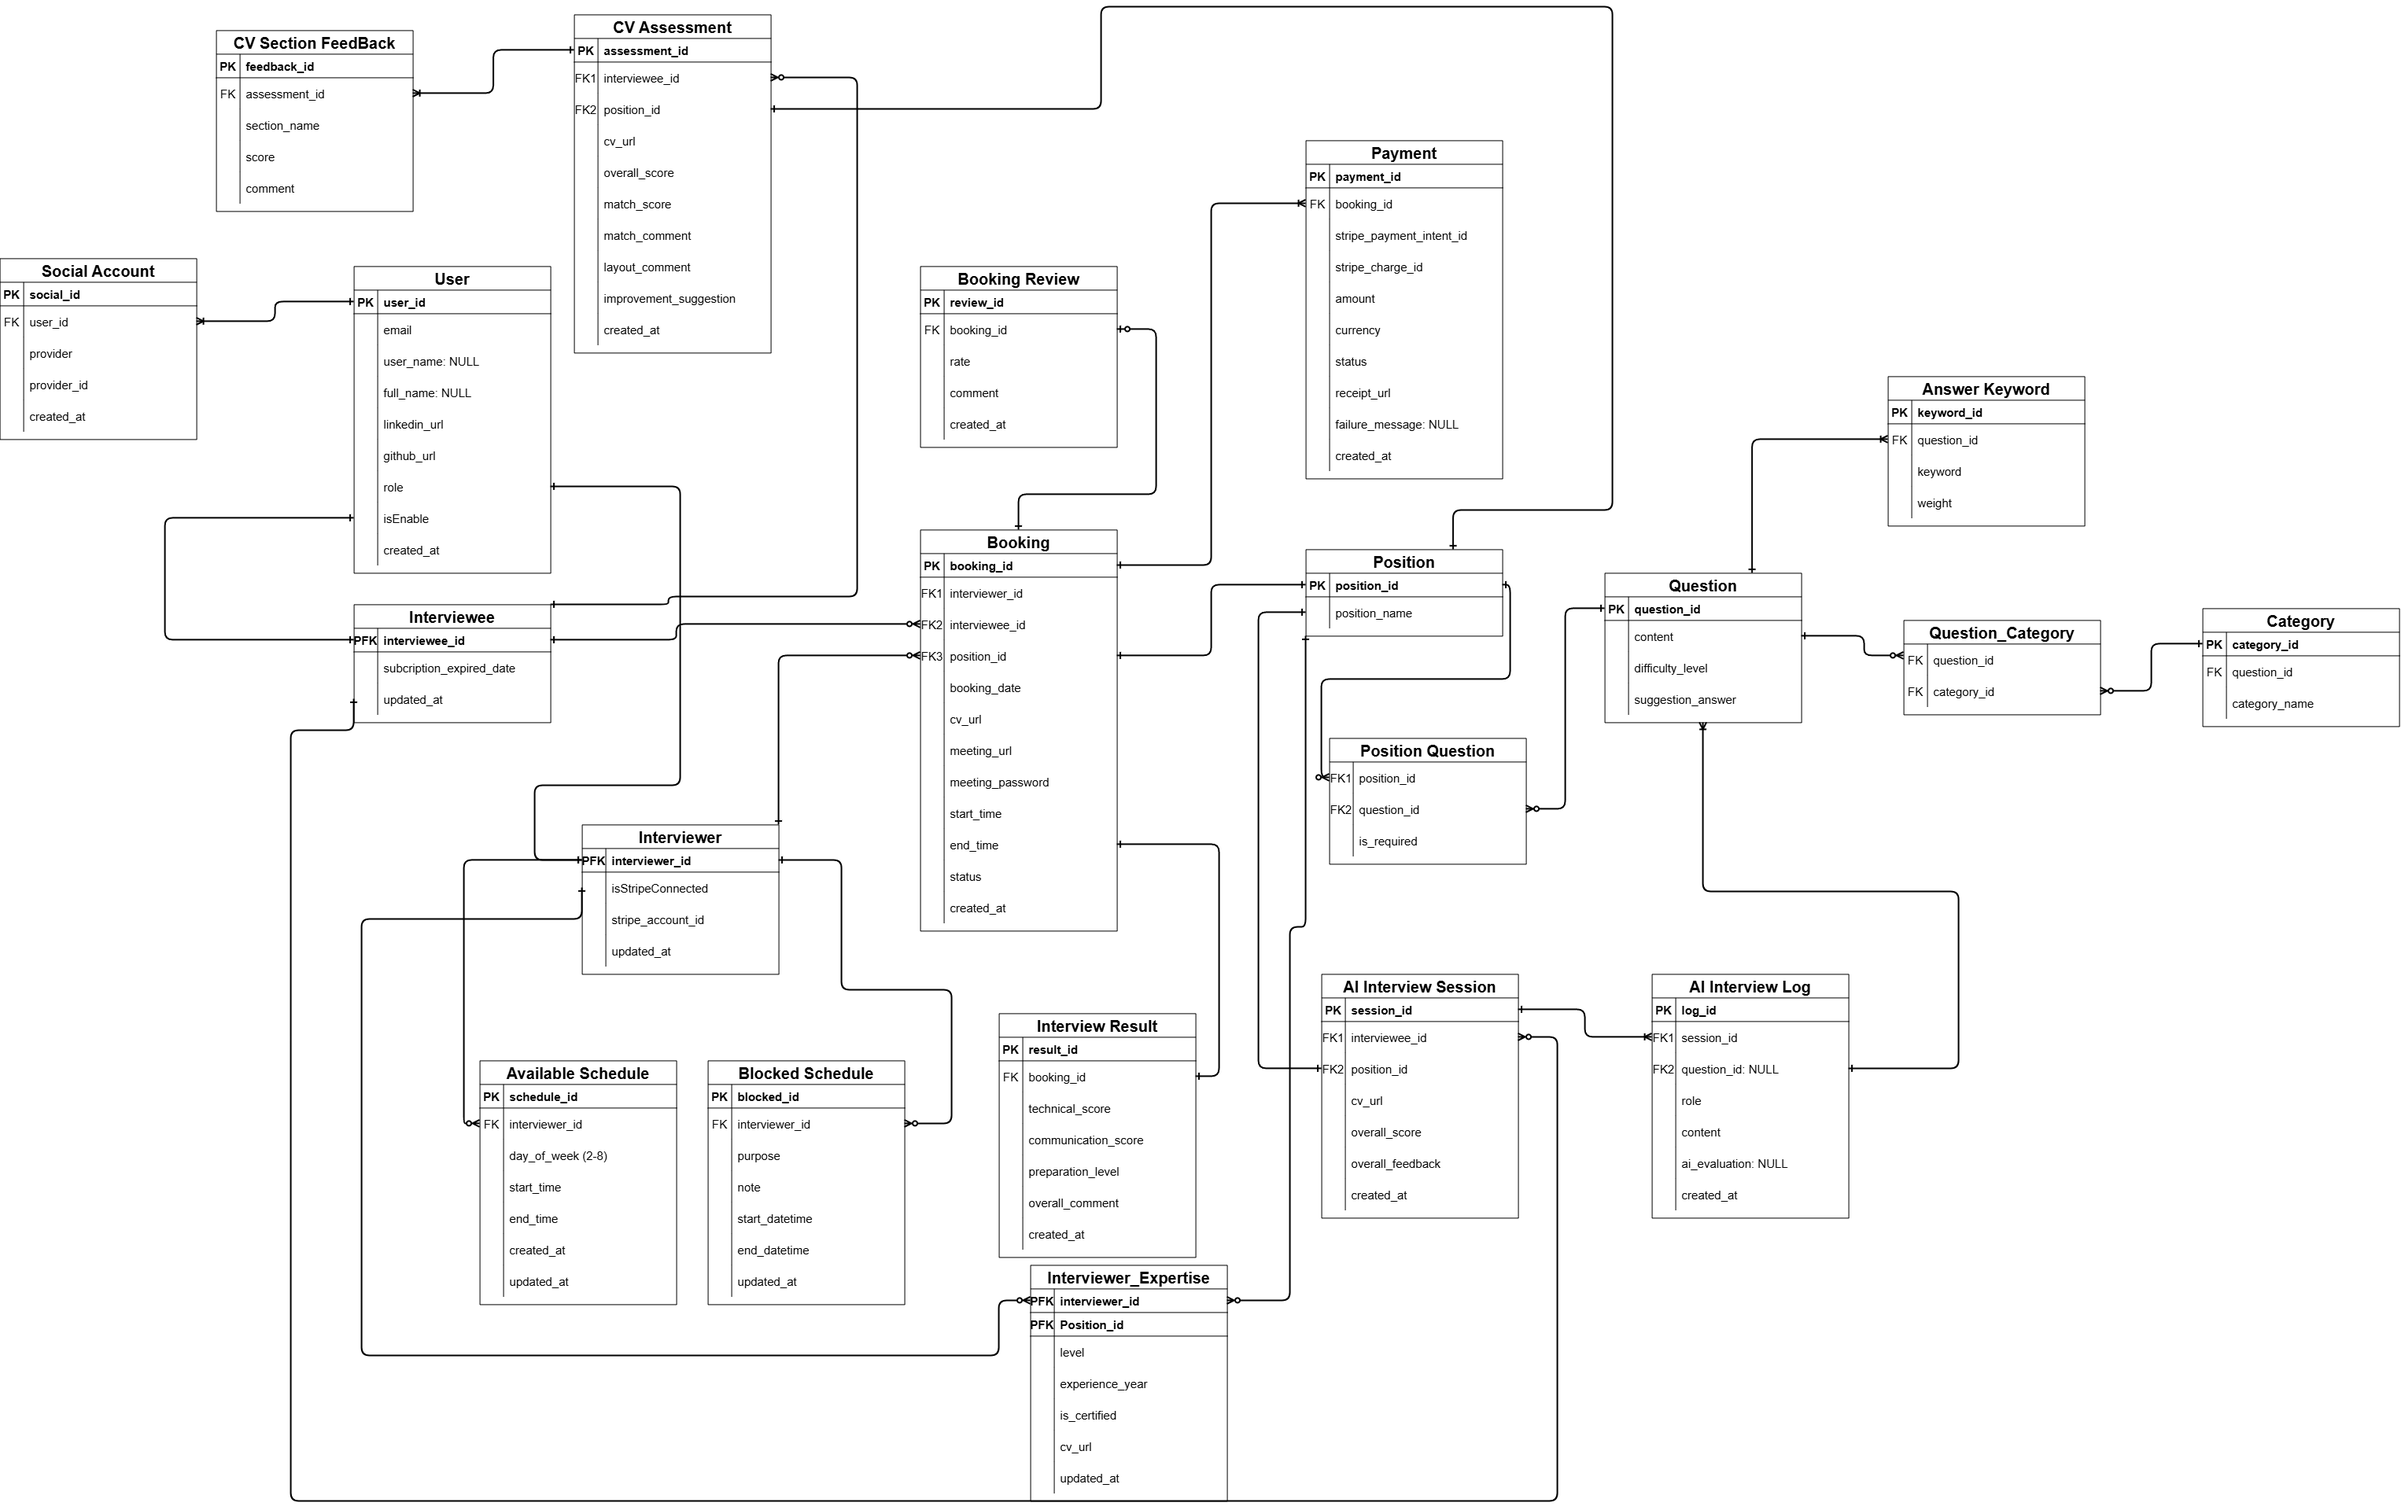
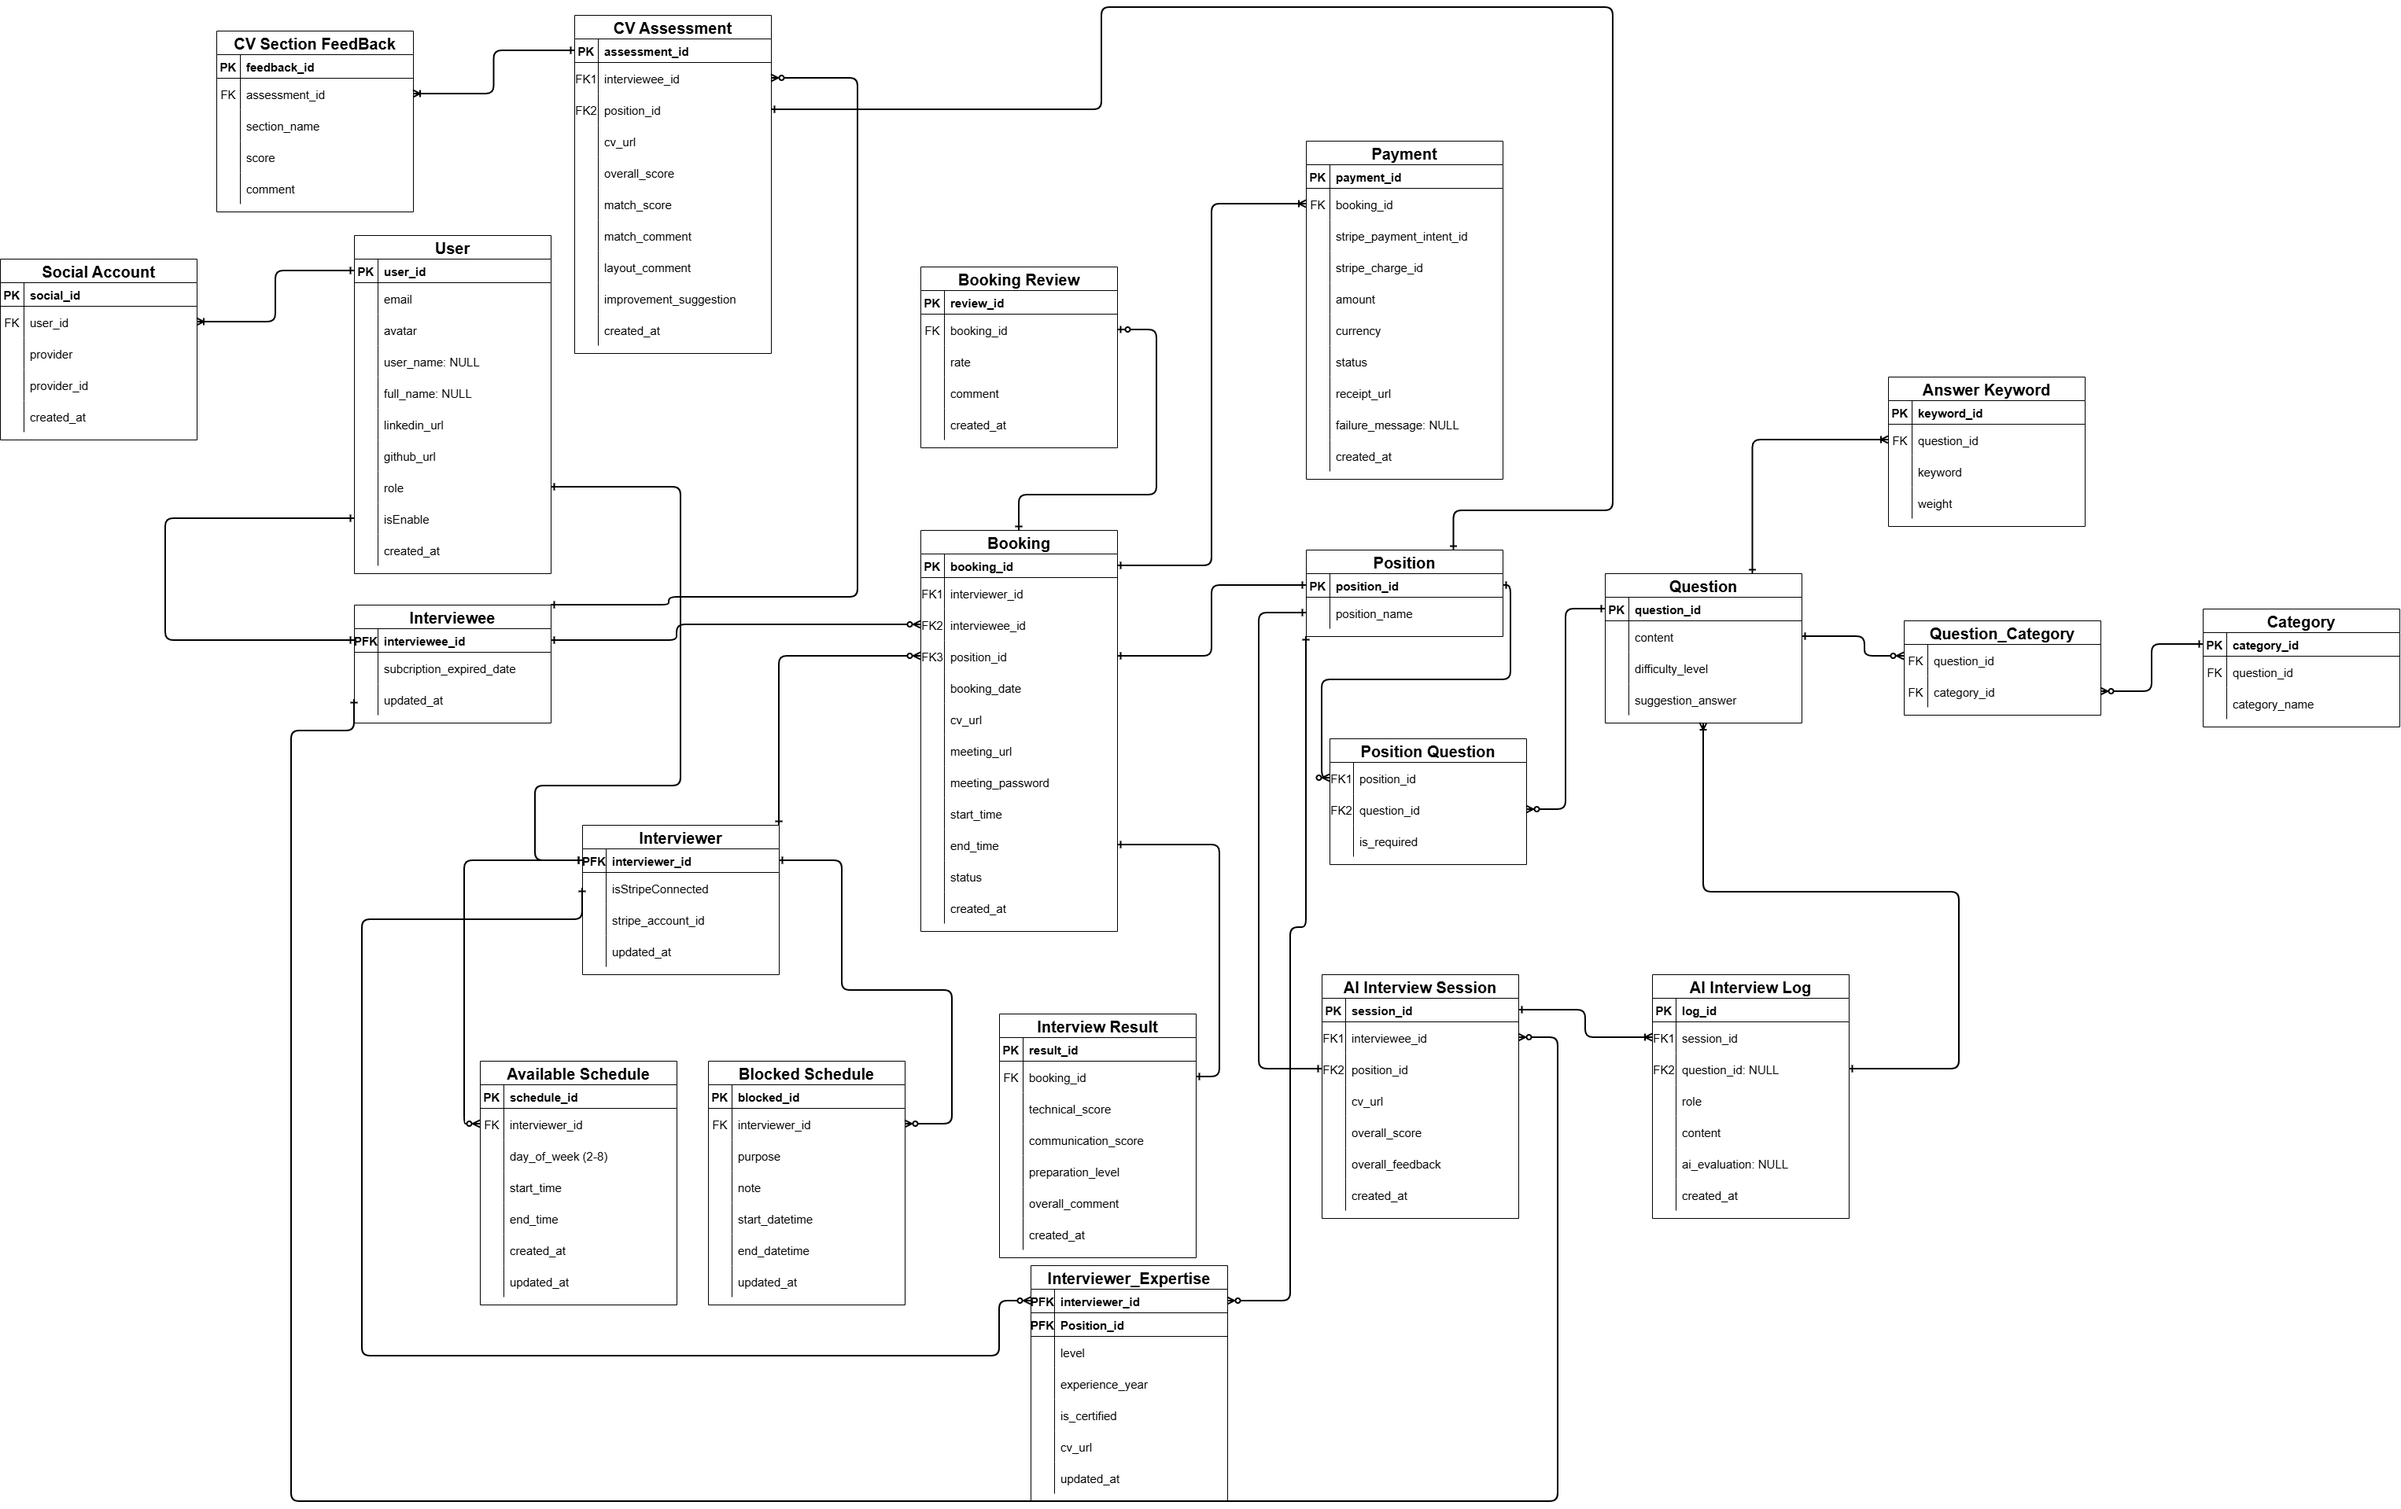
change little

diff --git a/src/backend/src/main/java/com/test/backend/service/UserService.java b/src/backend/src/main/java/com/test/backend/service/UserService.java
@@ -1,5 +1,7 @@
 package com.test.backend.service;
 
+import com.nimbusds.common.contenttype.ContentType;
+import com.test.backend.config.AvatarBucketConfig;
 import com.test.backend.config.CVBucketConfig;
 import com.test.backend.dto.authentication.RegisterRequest;
 import com.test.backend.entity.interviewerExpertise.InterviewerExpertise;
@@ -7,6 +9,8 @@ import com.test.backend.entity.interviewerExpertise.InterviewerExpertiseLevel;
 import com.test.backend.entity.position.Position;
 import com.test.backend.entity.user.User;
 import com.test.backend.entity.user.interviewer.Interviewer;
+import com.test.backend.exception.customException.EmptyInputException;
+import com.test.backend.exception.customException.ErrorTypeException;
 import com.test.backend.exception.customException.NotFoundException;
 import com.test.backend.repository.InterviewerExpertiseRepository;
 import com.test.backend.repository.InterviewerRepository;
@@ -15,6 +19,7 @@ import com.test.backend.repository.UserRepository;
 import io.minio.errors.MinioException;
 import lombok.RequiredArgsConstructor;
 import lombok.extern.slf4j.Slf4j;
+import org.apache.coyote.BadRequestException;
 import org.springframework.stereotype.Service;
 import org.springframework.web.multipart.MultipartFile;
 
@@ -26,7 +31,53 @@ import java.io.IOException;
 public class UserService {
     private final UserRepository userRepository;
 
+    private final FileService fileService;
 
+    private final AvatarBucketConfig avatarBucketConfig;
+
+    public void changeAvatar(User user, MultipartFile avatar) {
+        if(avatar == null || avatar.isEmpty()) {
+            throw new EmptyInputException("Avatar is empty");
+        }
+
+        String originalContentType = avatar.getContentType();
+
+        // Chỉ cho phép định dạng ảnh cơ bản
+        if(originalContentType == null ||
+                (!originalContentType.equals("image/jpeg") &&
+                        !originalContentType.equals("image/png") &&
+                        !originalContentType.equals("image/webp"))) {
+            throw new ErrorTypeException("File is not an image type");
+        }
+
+        String target = "avatar"+ "_" + user.getUserId();
+
+        byte[] fileData;
+        try {
+            fileData = avatar.getBytes();
+        } catch (IOException e) {
+            throw new RuntimeException(e);
+        }
+
+        String avatarUrl;
+        try {
+            avatarUrl = fileService
+                    .uploadFile(avatarBucketConfig.getAvatarBucketName(),
+                            fileData,
+                            originalContentType,
+                            target);
+        } catch (MinioException | IOException e) {
+            // 1. Ghi log đỏ (ERROR) kèm thông tin định danh và dấu vết lỗi (stacktrace)
+            log.error("Error: Fail to Upload CV of ID [{}]. Detail: {}", target, e.getMessage(), e);
+
+            // 2. Vẫn throw ra để dừng luồng hiện tại hoặc để GlobalExceptionHandler/AsyncHandler bắt lại
+            throw new RuntimeException("Upload Avatar Fail for Target: " + target, e);
+        }
+
+        user.setAvatar(avatarUrl);
+
+        userRepository.save(user);
+    }
 
     // Helper Funciton
     public User createUserAndReturn(String email, RegisterRequest request) {
@@ -40,6 +91,7 @@ public class UserService {
                 .isEnabled(Boolean.TRUE)
                 .build();
     }
+
 
 
 }

diff --git a/src/backend/src/main/java/com/test/backend/config/EmailConfig.java b/src/backend/src/main/java/com/test/backend/config/EmailConfig.java
@@ -1,0 +1,38 @@
+package com.test.backend.config;
+
+import org.springframework.beans.factory.annotation.Value;
+import org.springframework.context.annotation.Bean;
+import org.springframework.context.annotation.Configuration;
+import org.springframework.mail.javamail.JavaMailSender;
+import org.springframework.mail.javamail.JavaMailSenderImpl;
+
+import java.util.Properties;
+
+@Configuration
+public class EmailConfig {
+
+    @Value("${mail.username}")
+    private String emailUsername;
+
+    @Value("${mail.password}")
+    private String password;
+
+    @Bean
+    public JavaMailSender getJavaMailSender() {
+        JavaMailSenderImpl mailSender = new JavaMailSenderImpl();
+
+        mailSender.setHost("smtp.gmail.com");
+        mailSender.setPort(587);
+        mailSender.setUsername(emailUsername);
+        mailSender.setPassword(password);
+
+        Properties properties = mailSender.getJavaMailProperties();
+
+        properties.put("mail.transport.protocol", "smtp");
+        properties.put("mail.smtp.auth", "true");
+        properties.put("mail.smtp.starttls.enable", "true");
+        properties.put("mail.debug", "true");
+
+        return mailSender;
+    }
+}

diff --git a/src/backend/src/main/java/com/test/backend/config/AvatarBucketConfig.java b/src/backend/src/main/java/com/test/backend/config/AvatarBucketConfig.java
@@ -1,0 +1,37 @@
+package com.test.backend.config;
+
+import io.minio.BucketExistsArgs;
+import io.minio.MakeBucketArgs;
+import io.minio.MinioClient;
+import io.minio.errors.MinioException;
+import jakarta.annotation.PostConstruct;
+import lombok.RequiredArgsConstructor;
+import org.springframework.beans.factory.annotation.Value;
+import org.springframework.context.annotation.Configuration;
+
+@RequiredArgsConstructor
+@Configuration
+public class AvatarBucketConfig {
+    @Value("${minio.bucket.avatar}")
+    private String cvBucketName;
+
+    private final MinioClient minioClient;
+
+    @PostConstruct
+    public void initCVBucket() {
+        try {
+            boolean isBucketExist = minioClient.bucketExists(BucketExistsArgs.builder().bucket(cvBucketName).build());
+            if(!isBucketExist) {
+                minioClient.makeBucket(MakeBucketArgs.builder().bucket(cvBucketName).build());
+
+            }
+
+        } catch (MinioException e) {
+            throw new RuntimeException("ERROR create Avatar Bucket");
+        }
+    }
+
+    public String getAvatarBucketName() {
+        return cvBucketName;
+    }
+}

diff --git a/src/backend/src/main/java/com/test/backend/service/ExpertiseService.java b/src/backend/src/main/java/com/test/backend/service/ExpertiseService.java
@@ -9,6 +9,7 @@ import com.test.backend.entity.position.Position;
 import com.test.backend.entity.user.User;
 import com.test.backend.entity.user.interviewer.Interviewer;
 import com.test.backend.exception.customException.NotFoundException;
+import com.test.backend.exception.customException.StripeIntegrationException;
 import com.test.backend.repository.InterviewerExpertiseRepository;
 import com.test.backend.repository.InterviewerRepository;
 import com.test.backend.repository.PositionRepository;
@@ -48,6 +49,11 @@ public class ExpertiseService {
 
         Interviewer interviewer = interviewerRepository.findByInterviewerId(userId)
                 .orElseThrow(() -> new NotFoundException("Interviewer not found"));
+
+        // Nếu chưa có tài khoản Stripe thì ko dc check
+        if(!interviewer.getIsStripeConnected()) {
+            throw new StripeIntegrationException("Stripe is not connected");
+        }
 
         byte[] fileData;
         String contentType = file.getContentType();

diff --git a/src/backend/src/main/java/com/test/backend/exception/GlobalExceptionHandler.java b/src/backend/src/main/java/com/test/backend/exception/GlobalExceptionHandler.java
@@ -86,9 +86,24 @@ public class GlobalExceptionHandler {
                 );
     }
 
-    // Exception handle Stripe Integration
+    // Exception handle Schedule
     @ExceptionHandler(ScheduleConflictException.class)
     public ResponseEntity<?> handleEmptyInput(ScheduleConflictException e) {
+        return ResponseEntity
+                .status(HttpStatus.CONFLICT)
+                .body(
+                        new ErrorResponse(
+                                LocalDateTime.now().toString(),
+                                HttpStatus.CONFLICT.value(),
+                                HttpStatus.CONFLICT.getReasonPhrase(),
+                                e.getMessage()
+                        )
+                );
+    }
+
+    // Exception handle Error Type
+    @ExceptionHandler(ErrorTypeException.class)
+    public ResponseEntity<?> handleEmptyInput(ErrorTypeException e) {
         return ResponseEntity
                 .status(HttpStatus.CONFLICT)
                 .body(

diff --git a/src/backend/src/main/java/com/test/backend/controller/UserController.java b/src/backend/src/main/java/com/test/backend/controller/UserController.java
@@ -3,6 +3,7 @@ package com.test.backend.controller;
 import com.test.backend.entity.interviewerExpertise.InterviewerExpertiseLevel;
 import com.test.backend.entity.position.Position;
 import com.test.backend.entity.user.CustomUserDetail;
+import com.test.backend.entity.user.User;
 import com.test.backend.service.UserService;
 import lombok.RequiredArgsConstructor;
 import org.springframework.http.ResponseEntity;
@@ -19,5 +20,16 @@ public class UserController {
 
     private final UserService userService;
 
+    @PostMapping("/update-avatar")
+    private ResponseEntity<String> updateAvatar(
+        @RequestParam("avatar") MultipartFile avatar,
+        @AuthenticationPrincipal CustomUserDetail userDetail) {
+
+        User user = userDetail.getUser();
+
+        userService.changeAvatar(user, avatar);
+
+        return ResponseEntity.ok("Avatar updated");
+    }
 
 }

diff --git a/src/backend/src/main/java/com/test/backend/service/EmailService.java b/src/backend/src/main/java/com/test/backend/service/EmailService.java
@@ -1,0 +1,24 @@
+package com.test.backend.service;
+import jakarta.mail.MessagingException;
+import jakarta.mail.internet.MimeMessage;
+import lombok.RequiredArgsConstructor;
+import org.springframework.mail.javamail.JavaMailSender;
+import org.springframework.mail.javamail.MimeMessageHelper;
+import org.springframework.stereotype.Service;
+
+@RequiredArgsConstructor
+@Service
+public class EmailService {
+    private final JavaMailSender mailSender;
+
+    public void sendEmail(String to, String subject, String body) throws MessagingException {
+        MimeMessage message = mailSender.createMimeMessage();
+        MimeMessageHelper helper = new MimeMessageHelper(message, true);
+
+        helper.setTo(to);
+        helper.setSubject(subject);
+        helper.setText(body, true);
+
+        mailSender.send(message);
+    }
+}

diff --git a/src/backend/src/main/java/com/test/backend/dto/booking/FilterPositionResponse.java b/src/backend/src/main/java/com/test/backend/dto/booking/FilterPositionResponse.java
@@ -1,0 +1,28 @@
+package com.test.backend.dto.booking;
+
+import com.fasterxml.jackson.annotation.JsonProperty;
+import com.test.backend.entity.interviewerExpertise.InterviewerExpertiseLevel;
+
+public record FilterPositionResponse(
+    @JsonProperty("interviewer_id")
+    Long interviewerId,
+
+    String email,
+
+    @JsonProperty("user_name")
+    String userName,
+
+    @JsonProperty("fullName")
+    String fullName,
+
+    @JsonProperty("linkedin_url")
+    String linkedinUrl,
+
+    @JsonProperty("github_url")
+    String githubUrl,
+
+    InterviewerExpertiseLevel level,
+
+    @JsonProperty("experience_year")
+    Integer experienceYear
+) {}

diff --git a/src/backend/src/main/java/com/test/backend/entity/user/User.java b/src/backend/src/main/java/com/test/backend/entity/user/User.java
@@ -35,6 +35,9 @@ public class User {
     @Email
     private String email;
 
+    @Column(name = "avatar", length = 2048)
+    private String avatar;
+
     @Column(name = "user_name", length = 50)
     private String userName;
 

diff --git a/src/backend/src/main/java/com/test/backend/exception/customException/ErrorTypeException.java b/src/backend/src/main/java/com/test/backend/exception/customException/ErrorTypeException.java
@@ -1,0 +1,7 @@
+package com.test.backend.exception.customException;
+
+public class ErrorTypeException extends RuntimeException {
+    public ErrorTypeException(String message) {
+        super(message);
+    }
+}
